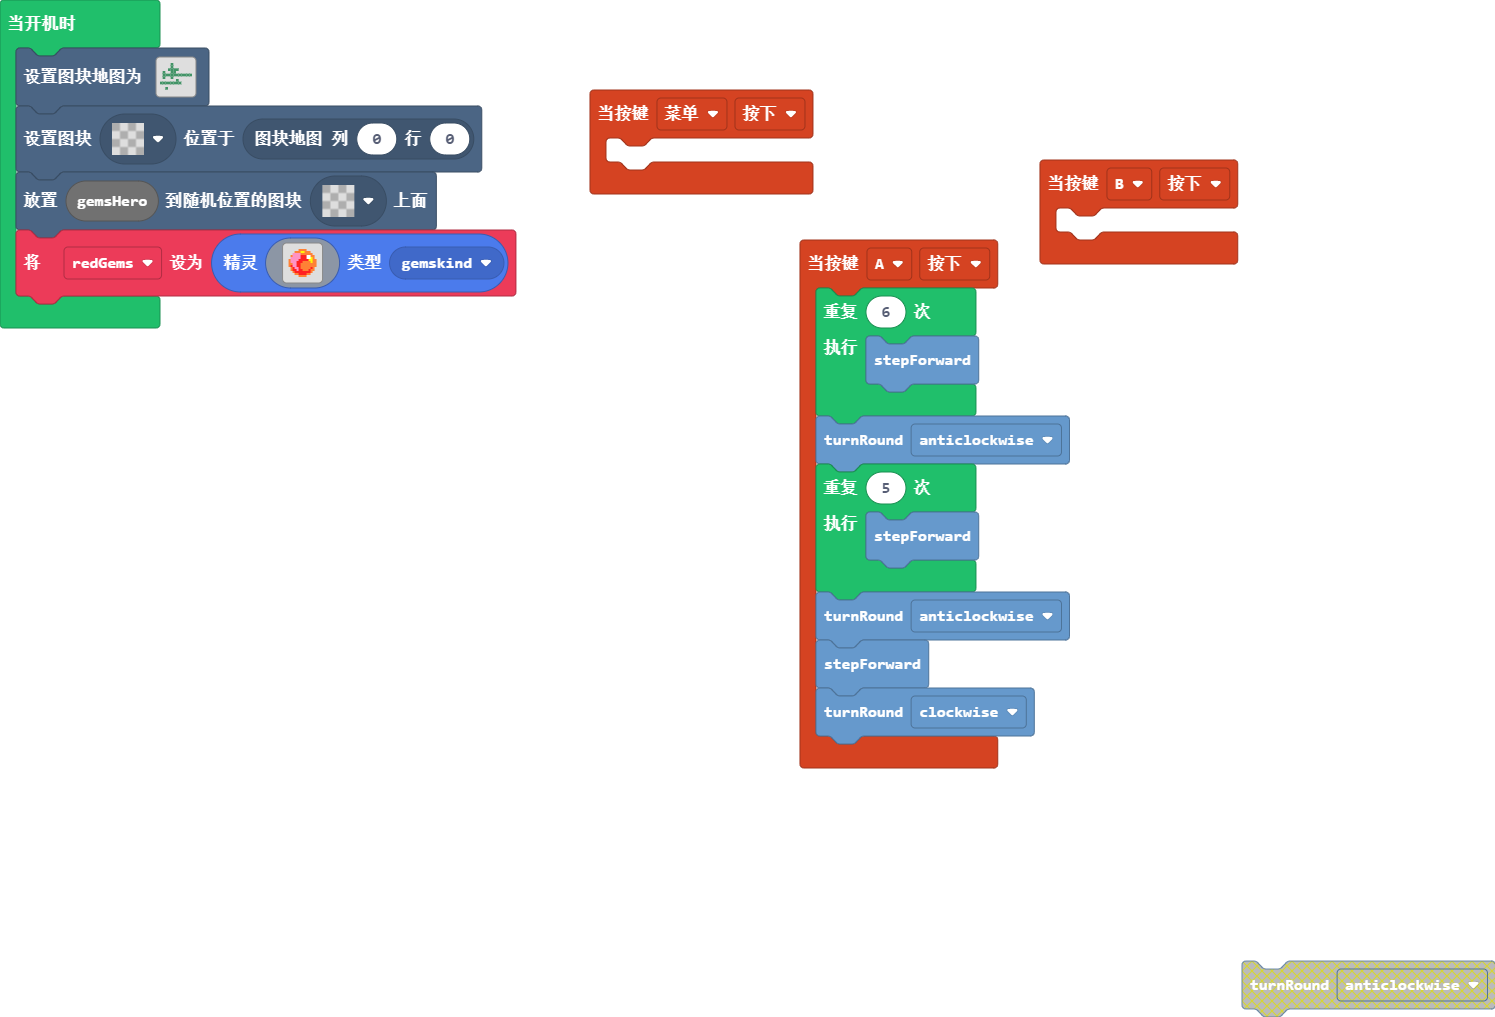
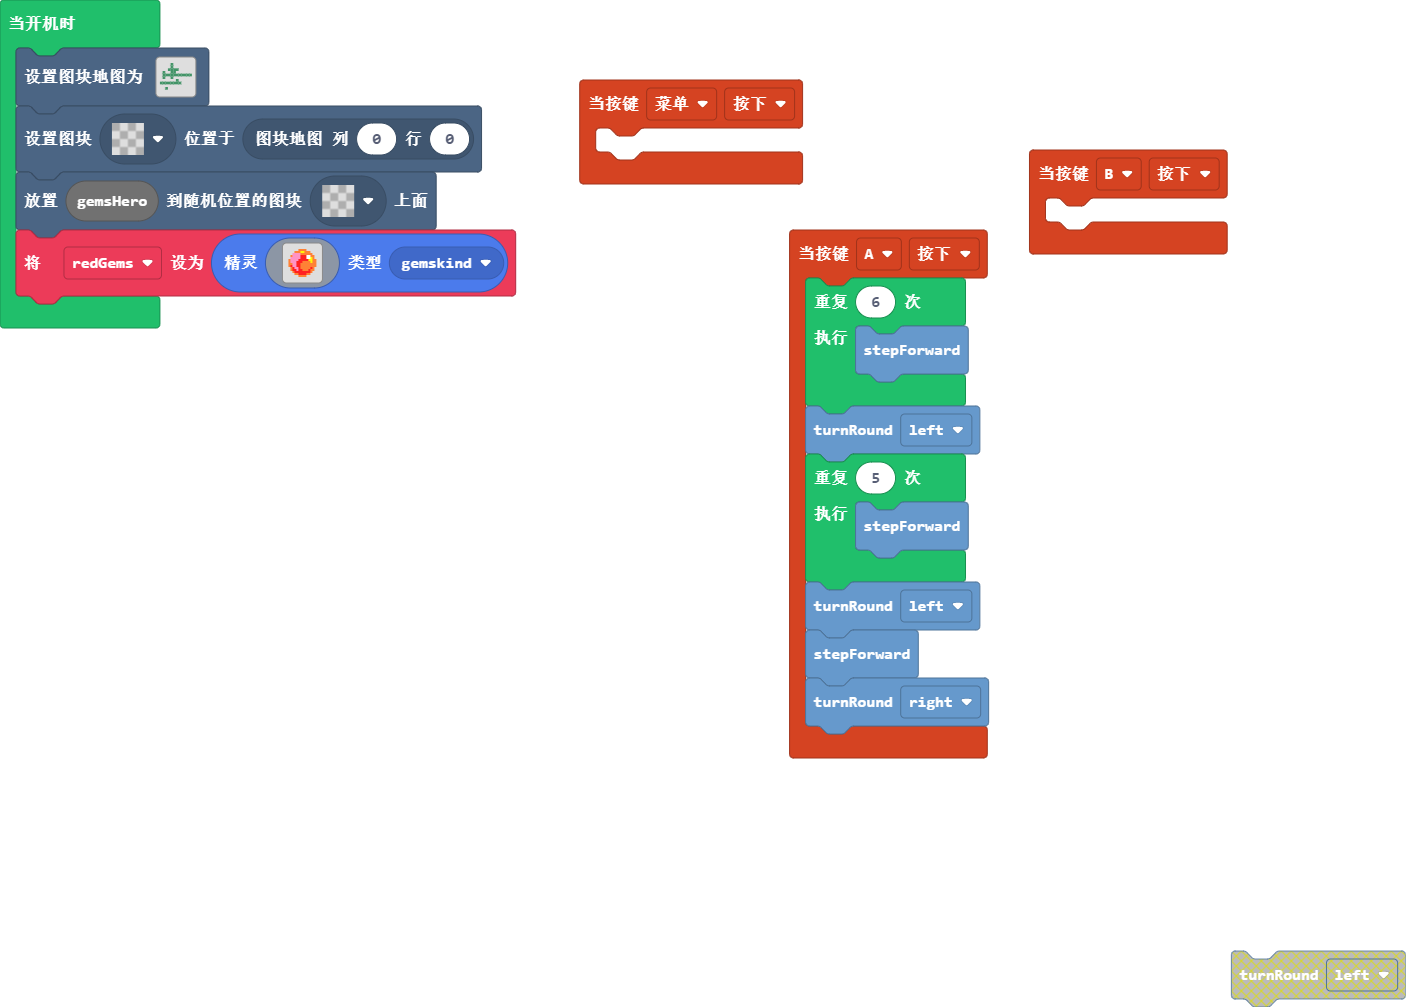
更新 pxt.json, main.blocks, main.ts, getgems.ts

Changed region(s): [[0.0, 0.0, 0.8869, 0.7696], [0.8257, 0.9235, 1.0, 1.0], [0.0, 0.0, 0.0612, 0.0308]]

diff --git a/main.ts b/main.ts
@@ -5,13 +5,13 @@ controller.A.onEvent(ControllerButtonEvent.Pressed, function () {
     for (let index = 0; index < 6; index++) {
         getgems.stepForward()
     }
-    getgems.turnRound(turnDireciton.anticlockwise)
+    getgems.turnRound(turnDireciton.left)
     for (let index = 0; index < 5; index++) {
         getgems.stepForward()
     }
-    getgems.turnRound(turnDireciton.anticlockwise)
+    getgems.turnRound(turnDireciton.left)
     getgems.stepForward()
-    getgems.turnRound(turnDireciton.clockwise)
+    getgems.turnRound(turnDireciton.right)
 })
 controller.B.onEvent(ControllerButtonEvent.Pressed, function () {
 	

diff --git a/getgems.ts b/getgems.ts
@@ -61,8 +61,8 @@ gemsHero = sprites.create(img`
     . . . . . f f . . f f . . . . . 
     `, SpriteKind.gemsPlayer)
 enum turnDireciton{
-    anticlockwise=0,
-    clockwise =1
+    left=0,
+    right =1
     }
 //% weight=100 color=#6699CC icon="\uf140" block="Getgems"
 //% groups='["move"]'
